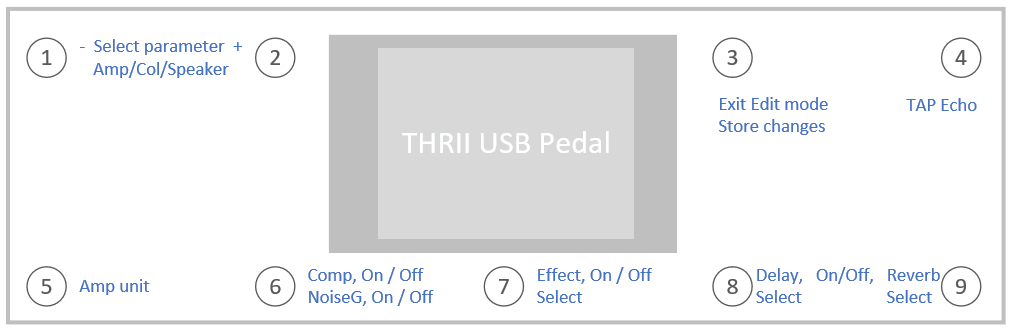
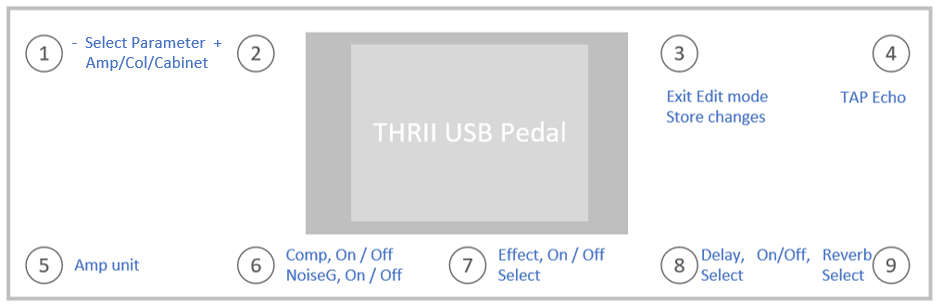
New functionality: When in manual mode, pressing the bank up/down buttons switches to next/previous preset. Works for the THRII 5 presets as well as the user and factory presets. Convenient when needed to switch effects in a preset and still switch to different presets without the need to select dif

diff --git a/thr_ii/FSM_9b_1.cpp b/thr_ii/FSM_9b_1.cpp
@@ -518,10 +518,44 @@ void handle_patch_manual(UIStates &_uistate, uint8_t &button_state)
     switch (button_state)
     {
         case 1:
+          if( _uistate_prev != UI_home_amp )
+          {
+            *presel_patch_id = *presel_patch_id - 1;
+            if( *presel_patch_id < 1 ) // Detect if went  below first patch
+            {
+              *presel_patch_id = *npatches;	// Wrap back round to the last patch in library
+            }
+            *bank_first_patch = ((*presel_patch_id-1)/5) * 5 + 1;
+            *active_patch_id = *presel_patch_id;
+            patch_activate(*presel_patch_id);
+          }
+          else
+          {
+            nUserPreset = nUserPreset - 1;
+            if( nUserPreset < 0 ) { nUserPreset = 4; }
+            select_thrii_preset( nUserPreset );
+          }
           maskCUpdate = maskAll;
         break;
 
-        case 2: 
+        case 2:
+          if( _uistate_prev != UI_home_amp )
+          {
+            *presel_patch_id = *presel_patch_id + 1;
+            if( *presel_patch_id > *npatches ) // Detect if went beyond last patch
+            {
+              *presel_patch_id = 1;	// Wrap back round to first patch in library
+            }
+            *bank_first_patch = ((*presel_patch_id-1)/5) * 5 + 1;
+            *active_patch_id = *presel_patch_id;
+            patch_activate(*presel_patch_id);
+          }
+          else
+          {
+            nUserPreset = nUserPreset + 1;
+            if( nUserPreset > 4 ) { nUserPreset = 0; }
+            select_thrii_preset( nUserPreset );
+          }
           maskCUpdate = maskAll;
         break;
 

diff --git a/thr_ii/updateStatusMask.cpp b/thr_ii/updateStatusMask.cpp
@@ -169,6 +169,15 @@ void drawPatchIconBank(int presel_patch_id, int active_patch_id, int8_t active_u
 	
 	switch( _uistate ) 
   {
+    // TODO: avoid code duplication
+    case UI_manual:
+      if( _uistate_prev == UI_home_amp )
+      {
+        for(int i = 1; i <= 5; i++) { drawPatchIcon(60 + 20*i, 0, 20, 20, TFT_THRBROWN, i, false); }
+        drawPatchIcon(60 + 20*active_user_setting + 1, 0, 20, 20, TFT_THRCREAM, active_user_setting + 1, false);
+      }
+		break;
+
 		case UI_home_amp:
       for(int i = 1; i <= 5; i++)
       {
@@ -559,8 +568,17 @@ void updateStatusMask(THR30II_Settings &thrs, uint32_t &maskCUpdate)
 	// Patch number
   if( maskCUpdate & maskPatchID )
   {
-    if( _uistate == UI_home_amp )        { drawPatchID(TFT_THRCREAM, nUserPreset + 1);  }
-    else if( _uistate == UI_home_patch ) { drawPatchID(TFT_THRCREAM, *active_patch_id); }
+//    if( _uistate == UI_home_amp )        { drawPatchID(TFT_THRCREAM, nUserPreset + 1);  }
+////    else if( _uistate == UI_home_patch ) { drawPatchID(TFT_THRCREAM, *active_patch_id); }
+//    else                                 { drawPatchID(TFT_THRCREAM, *active_patch_id); }
+    if((_uistate == UI_home_amp) || (_uistate == UI_manual  && _uistate_prev == UI_home_amp))
+    {
+      drawPatchID(TFT_THRCREAM, nUserPreset + 1);
+    }
+    else
+    {
+      drawPatchID(TFT_THRCREAM, *active_patch_id);
+    }
   }
 
 	// Patch icon bank

diff --git a/README.md b/README.md
@@ -31,7 +31,7 @@ I set Visual Studio Code (PlatformIO) with all libraries needed but could not in
 
 **OPERATION MODES**
 
-*THRII Presets (1-5)*
+***THRII Presets (1-5)***
 <br> This is the default mode which is selected after connecting to THRII
 - At start-up and after connecting to THR, the GUI shows "INITIALIZING" and then "*THR* PANEL".
   It checks and shows the actual THR name, e.g., in my case *THR* = **THR10II-W**.   
@@ -64,7 +64,7 @@ I set Visual Studio Code (PlatformIO) with all libraries needed but could not in
 |        | Hold   |                                     |
 
 
-*User Presets / Factory Presets*
+***User Presets / Factory Presets***
 - User presets are loaded from SD card at start-up
 - The THRII Factory presets provided with the remote App are copied in this repo. if present on the SD card, they are loaded as well
 - User presets use the same format and file type as the THRII factory presets (.thrl6p)
@@ -96,18 +96,19 @@ I set Visual Studio Code (PlatformIO) with all libraries needed but could not in
 
 
   
-*Manual mode*
+***Manual mode***
 
 - In manual mode, individual units can be selected and switched on/off by using the pedal board
 - Amp model/collection and speakers can be changed as well
+- In manual mode, bank up/down buttons are used to select next/previous preset
 
 ![THRII USB Pedal](images/manual.png)
 
 | Button | Action | Function                                       |
 |--------|--------|------------------------------------------------|
-|   1    | Press  | Next preset (+1) (TODO)                        |
+|   1    | Press  | Next preset (+1)                       |
 |        | Hold   | Toggle Collection/Amp/Cabinet                  |
-|   2    | Press  | Previous preset (-1) (TODO)                    |
+|   2    | Press  | Previous preset (-1)                   |
 |        | Hold   | Next from selected Collection, Amp, or Cabinet |
 |   3    | Press  | Toggle “Manual” mode                           |
 |        | Hold   | Toggle “Edit” mode                             |
@@ -125,7 +126,7 @@ I set Visual Studio Code (PlatformIO) with all libraries needed but could not in
 |        | Hold   | Select Reverb (Spring/Plate/Room/Hall)         |
 
 
-*Edit mode*
+***Edit mode***
 
 - THRII knobs can be used to directly change parameter settings. New values are reflected in the GUI
 - The THRII Audio knob can be used to change a parameter value. Press buttons 1 and 2 to select a parameter, then use the audio knob to set value
@@ -154,7 +155,7 @@ I set Visual Studio Code (PlatformIO) with all libraries needed but could not in
 |        | Hold   | Select Reverb (Spring/Plate/Room/Hall)                         |
 
 
-*Tabata/Metronome Mode*
+***Tabata/Metronome Mode***
 
 <br> There are 3 variants available: 
 -	Metronome: this is the default mode
